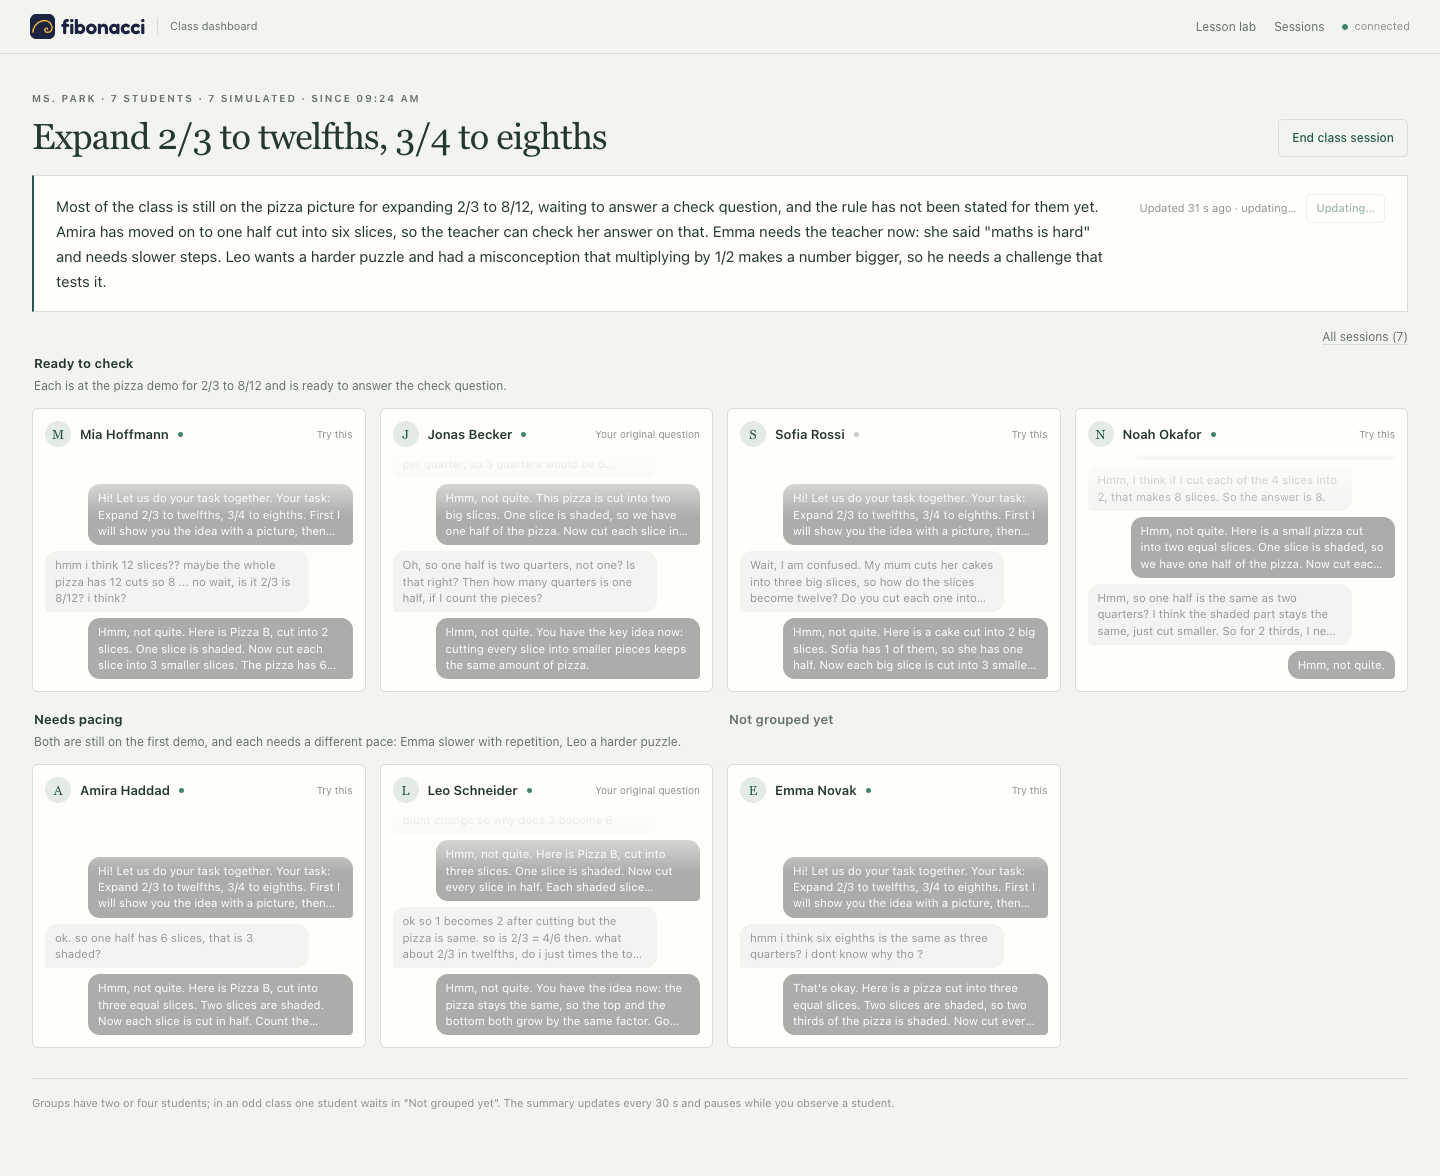
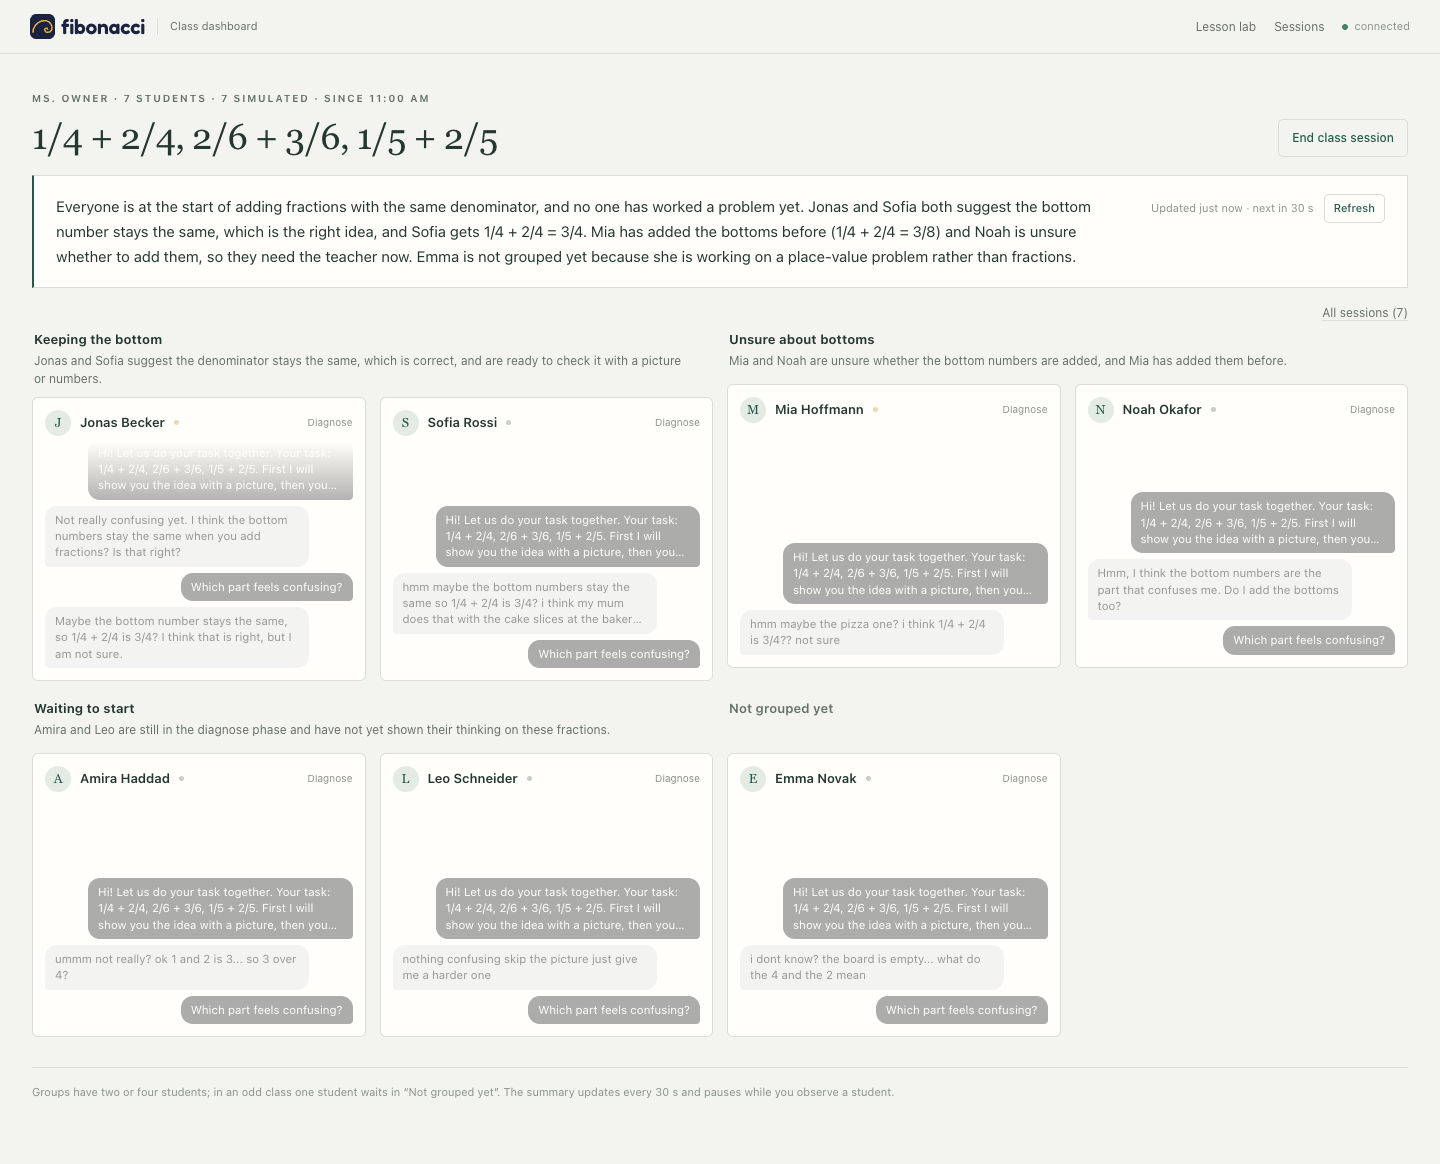
Class setup: odd-class note says one student stays ungrouped; odd-class screenshot as the owning teacher after the identity merge

diff --git a/client/src/screens/TeacherHome.tsx b/client/src/screens/TeacherHome.tsx
@@ -247,7 +247,7 @@ export function ClassSetup({ conn, teacherId }: { conn: DbConnection; teacherId:
             </div>
             <p className="pr-note" style={{ margin: '10px 0 0' }}>
               AI students with their own personalities and memories, typing to the tutor. The dashboard groups students in twos or fours, so an even number works best.
-              {simulated % 2 === 1 && <strong data-testid="sim-odd"> With an odd number one group has three.</strong>}
+              {simulated % 2 === 1 && <strong data-testid="sim-odd"> With an odd number one student stays ungrouped.</strong>}
             </p>
             <label className="pr-check" style={{ marginTop: 10 }}>
               <input data-testid="sim-reset" type="checkbox" checked={resetSim} onChange={e => setResetSim(e.target.checked)} />
